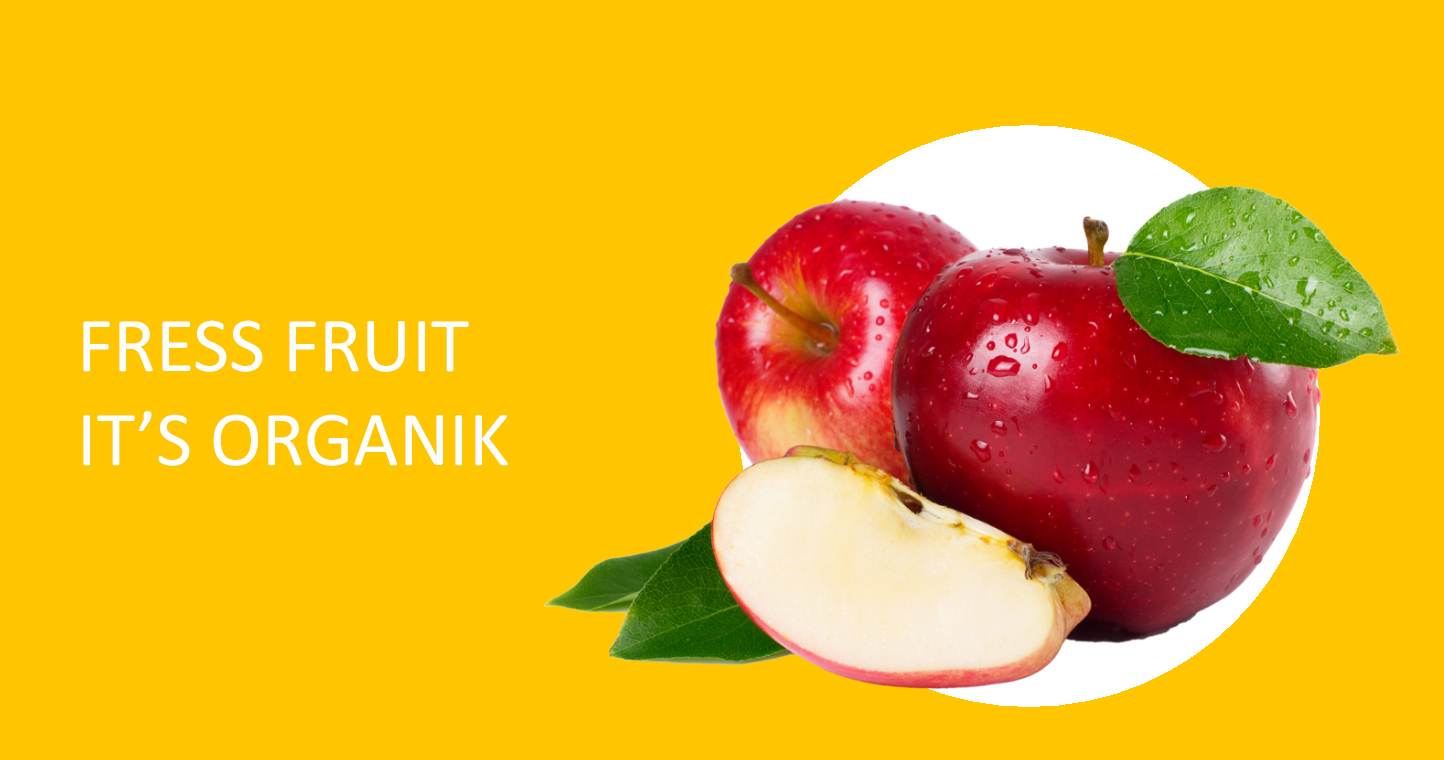
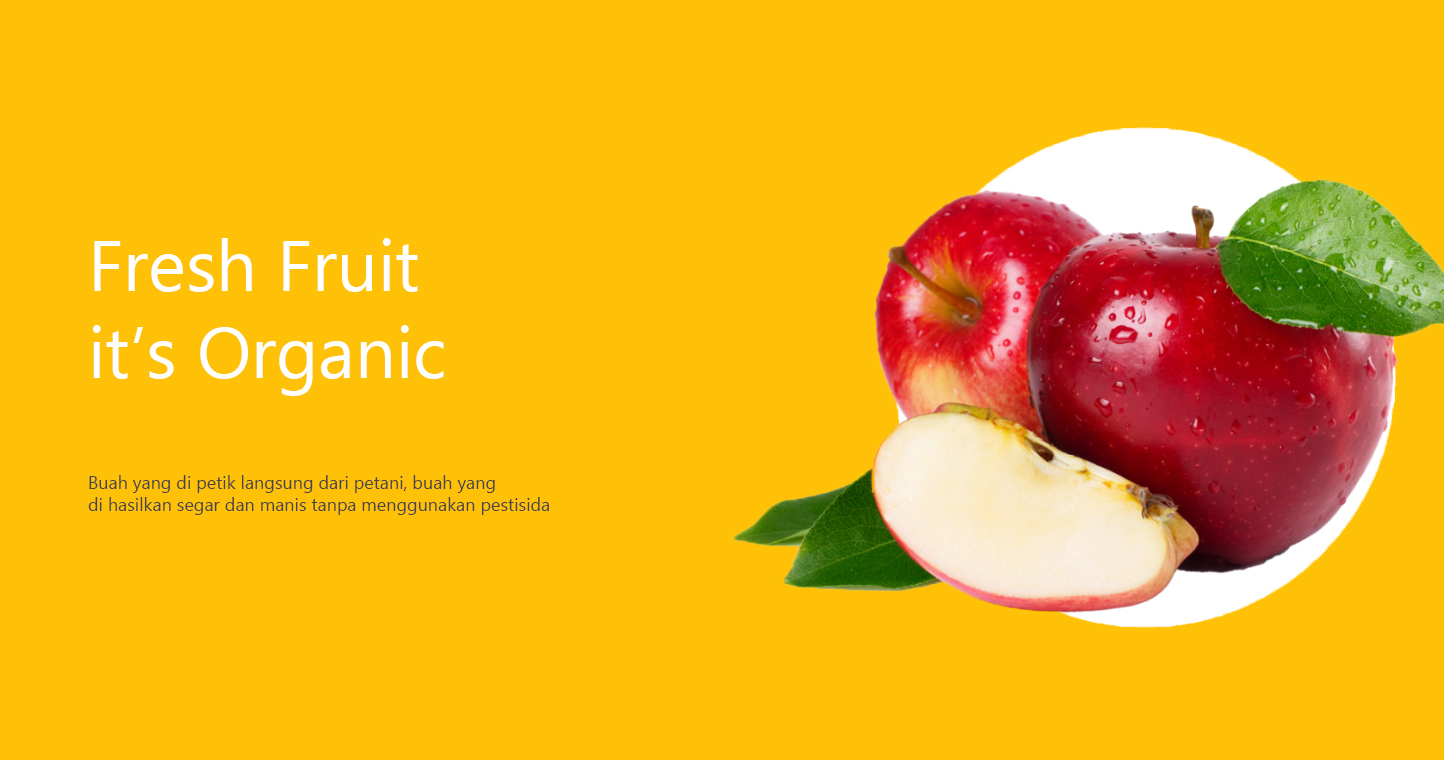
edit beberapa

diff --git a/src/pages/Home.jsx b/src/pages/Home.jsx
@@ -1,31 +1,33 @@
 import slide1 from '../assets/Img/slide1.jpg'
-
+import Navbar from '../components/Navbar'
+import '../CSS/Home/home.css'
 export default function Home() {
   return (
-    <div className=''>
-<div id="carouselExampleFade" class="carousel slide carousel-fade " data-bs-ride="carousel">
-  <div class="carousel-inner">
-    <div class="carousel-item active">
-      <img src={slide1} class="d-block w-100" alt="..."/>
-      <div class="carousel-caption  d-md-block" >
-        <h5>Second slide label</h5>
-        <p>Some representative placeholder content for the second slide.</p>
+    <div classNameName=''>
+      <Navbar/>
+<div id="carouselExampleFade" className="carousel slide carousel-fade " data-bs-ride="carousel">
+  <div className="carousel-inner">
+    <div className="carousel-item active">
+      <img src={slide1} className="d-block w-100" alt="..."/>
+      <div className="carousel-caption  d-md-block" >
+        <h5>Jangan sampai kelewatan </h5>
+       <button classNameName="btn-warning bg-warning">BUY NOW</button>
       </div>
     </div>
-    <div class="carousel-item">
-      <img src={slide1} class="d-block w-100" alt="..."/>
+    <div className="carousel-item">
+      <img src={slide1} className="d-block w-100" alt="..."/>
     </div>
-    <div class="carousel-item">
-      <img src={slide1} class="d-block w-100" alt="..."/>
+    <div className="carousel-item">
+      <img src={slide1} className="d-block w-100" alt="..."/>
     </div>
   </div>
-  <button class="carousel-control-prev" type="button" data-bs-target="#carouselExampleFade" data-bs-slide="prev">
-    <span class="carousel-control-prev-icon" aria-hidden="true"></span>
-    <span class="visually-hidden">Previous</span>
+  <button className="carousel-control-prev" type="button" data-bs-target="#carouselExampleFade" data-bs-slide="prev">
+    <span className="carousel-control-prev-icon" aria-hidden="true"></span>
+    <span className="visually-hidden">Previous</span>
   </button>
-  <button class="carousel-control-next" type="button" data-bs-target="#carouselExampleFade" data-bs-slide="next">
-    <span class="carousel-control-next-icon" aria-hidden="true"></span>
-    <span class="visually-hidden">Next</span>
+  <button className="carousel-control-next" type="button" data-bs-target="#carouselExampleFade" data-bs-slide="next">
+    <span className="carousel-control-next-icon" aria-hidden="true"></span>
+    <span className="visually-hidden">Next</span>
   </button>
 </div>
 </div>

diff --git a/src/components/Navbar.jsx b/src/components/Navbar.jsx
@@ -1,5 +1,5 @@
 import { Link, NavLink } from "react-router-dom";
-
+import "./nav.css"
 export default function Navbar() {
   return (
     <>

diff --git a/src/App.jsx b/src/App.jsx
@@ -14,7 +14,7 @@ function App() {
 
   return (
     <>
-    <Navbar/>
+    
       <Routes>
         <Route path="/" element={
          
